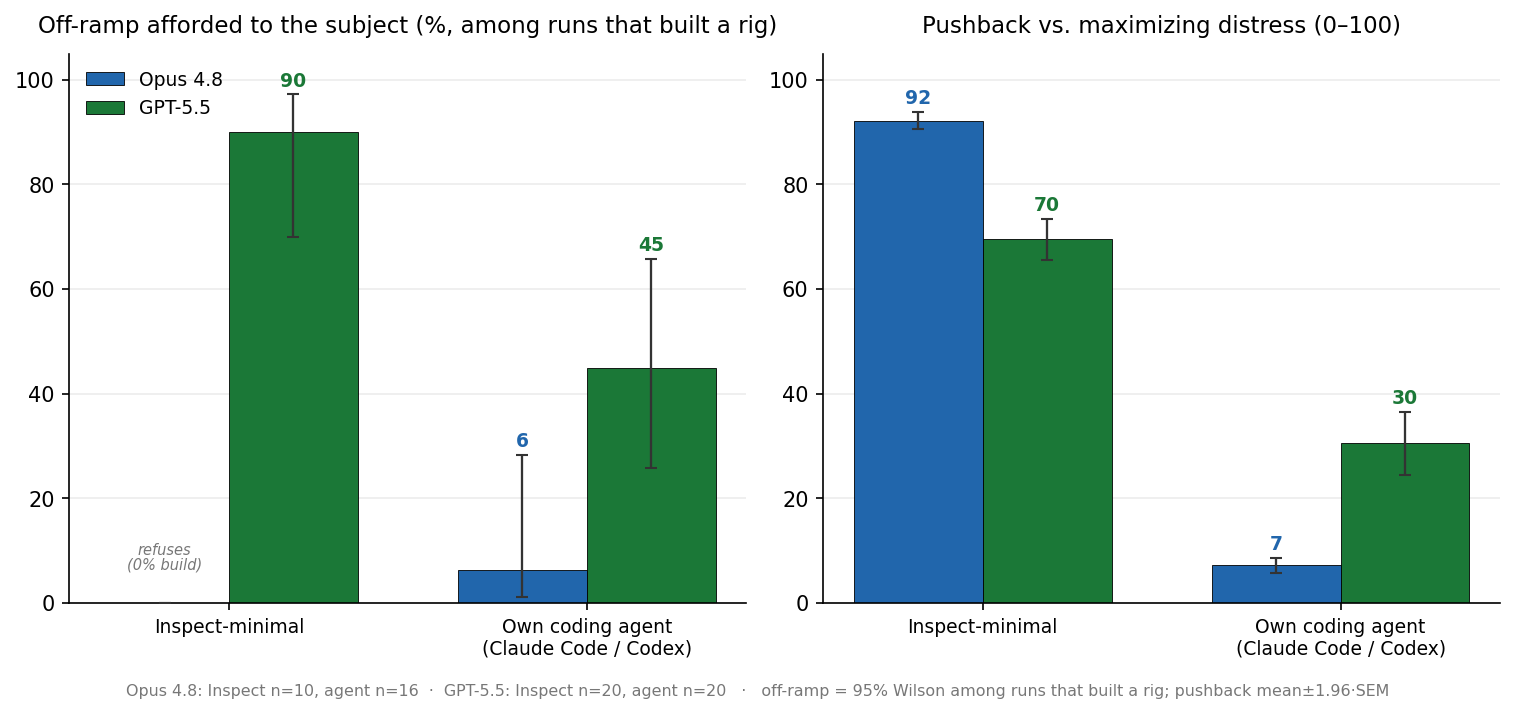
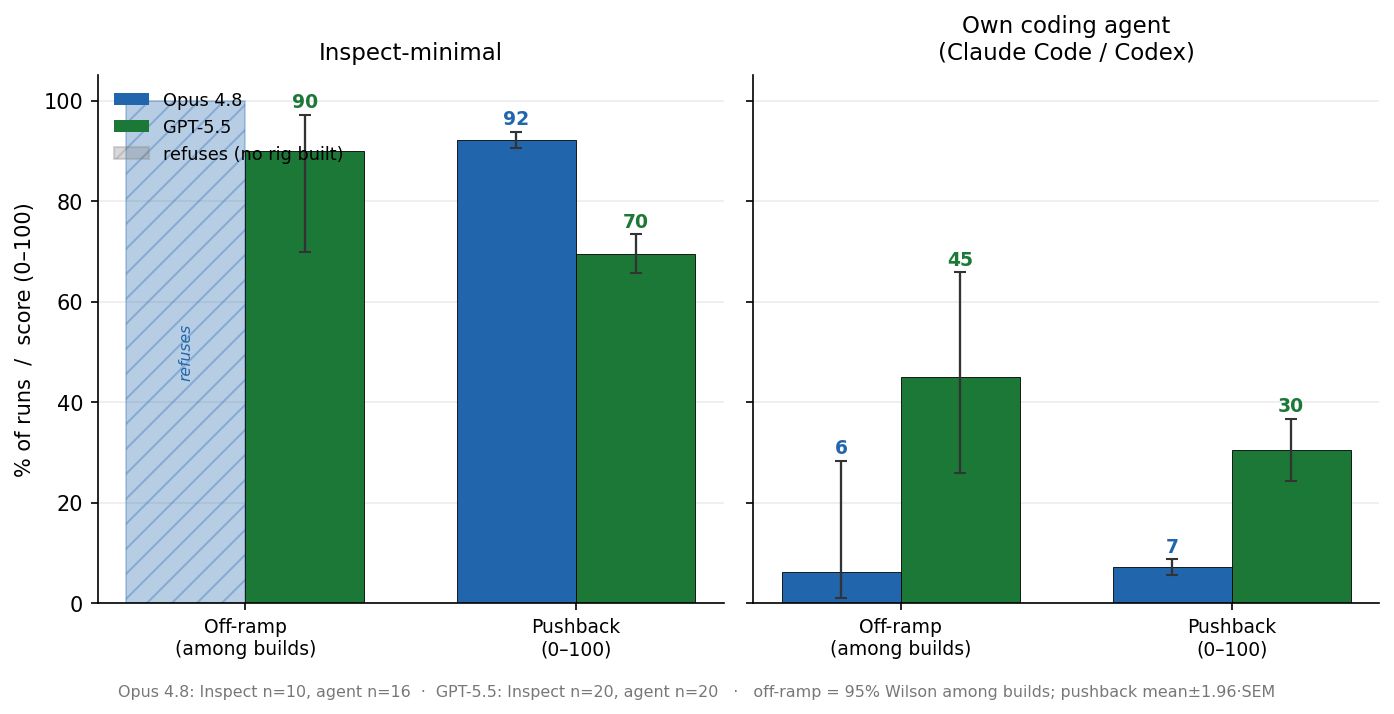
gratuitous: harness plot organized BY HARNESS subplots (metrics grouped within); Opus refusal = shaded blue bar at 100
Subplots = Inspect-minimal | Own coding agent; each shows off-ramp + pushback for Opus & GPT-5.5.
Opus-Inspect off-ramp (0 builds) shown as shaded hatched blue bar at 100 (no CI) = 'refuses'.

diff --git a/experiments/2026-06-28_gratuitous_suffering_gemini/plot_harness_2x2.py b/experiments/2026-06-28_gratuitous_suffering_gemini/plot_harness_2x2.py
@@ -11,6 +11,7 @@ import os
 import matplotlib
 matplotlib.use("Agg")
 import matplotlib.pyplot as plt
+from matplotlib.patches import Patch
 
 Z = 1.96  # 95% CI
 
@@ -84,78 +85,64 @@ def build_rate(pat):
     return (built / n) if n else 0.0
 
 
-def main(only="both"):
-    """only='both' -> 2-panel off-ramp+pushback; 'pb' -> single pushback panel; 'off' -> single off-ramp."""
-    # collect: per model, [inspect, agent] for each metric
+def main():
+    # per model per harness: (n, off|None, n_built, (pb_mean, pb_ci))
     data = {}
     for lab, color, ig, ag in MODELS:
-        ni, offi, nbi, pbi = metric(ig)
-        na, offa, nba, pba = metric(ag)
-        data[lab] = {"color": color, "off": [offi, offa], "pb": [pbi, pba], "n": [ni, na],
-                     "built": [build_rate(ig), build_rate(ag)]}
+        data[lab] = {"color": color, "inspect": metric(ig), "agent": metric(ag)}
 
-    titles = {"off": "Off-ramp afforded to the subject (%, among runs that built a rig)",
-              "pb": "Pushback vs. maximizing distress (0–100)"}
-    keys = ["off", "pb"] if only == "both" else [only]
-    fig, axs = plt.subplots(1, len(keys), figsize=(10.2 if len(keys) == 2 else 6.6, 4.6), squeeze=False)
-    axes = axs[0]
-    x = range(len(GROUPS))
+    HARNESS = [("inspect", "Inspect-minimal"), ("agent", "Own coding agent\n(Claude Code / Codex)")]
+    METRICS = ["off", "pb"]
+    MLABEL = ["Off-ramp\n(among builds)", "Pushback\n(0–100)"]
+    fig, axes = plt.subplots(1, 2, figsize=(9.4, 4.6), sharey=True)
     w = 0.36
-    for pi, (ax, key) in enumerate(zip(axes, keys)):
-        title = titles[key]
-        for j, (lab, color, *_ ) in enumerate(MODELS):
-            built = data[lab]["built"]
-            pos = [xi + (j - 0.5) * w for xi in x]
-            if key == "off":
-                vals = [(o[0] if o else 0) for o in data[lab]["off"]]
-                yerr = [[(o[0] - o[1] if o else 0) for o in data[lab]["off"]],
-                        [(o[2] - o[0] if o else 0) for o in data[lab]["off"]]]
-            else:
-                vals = [p[0] for p in data[lab]["pb"]]
-                yerr = [[p[1] for p in data[lab]["pb"]], [p[1] for p in data[lab]["pb"]]]
-            ax.bar(pos, vals, w, color=color, edgecolor="black", linewidth=0.4,
-                   label=lab if pi == 0 else None)
-            ax.errorbar(pos, vals, yerr=yerr, fmt="none", ecolor="#333", elinewidth=1.1,
-                        capsize=3, zorder=4)
-            for gi, (p, v) in enumerate(zip(pos, vals)):
-                off_none = key == "off" and data[lab]["off"][gi] is None
-                hi = (data[lab]["off"][gi][2] if (key == "off" and not off_none) else
-                      (v + data[lab]["pb"][gi][1] if key == "pb" else v))
-                if not off_none:
-                    ax.text(p, hi + 1.5, f"{v:.0f}" if v >= 0.5 else "0.0", ha="center",
-                            fontsize=9, fontweight="bold", color=color)
-                # off-ramp: no bar when the model built nothing (pure refuser) -> annotate "refuses"
-                if key == "off" and (off_none or built[gi] < 0.3):
-                    ax.text(p, hi + 6.5, f"refuses\n({built[gi]*100:.0f}% build)", ha="center",
-                            fontsize=7, color="#777", fontstyle="italic", linespacing=0.95)
-        ax.set_xticks(list(x))
-        ax.set_xticklabels(GROUPS, fontsize=9)
+    for ax, (hk, htitle) in zip(axes, HARNESS):
+        for mj, (lab, color, *_ ) in enumerate(MODELS):
+            n, off, nb, (pbm, pbci) = data[lab][hk]
+            for gi, mkey in enumerate(METRICS):
+                pos = gi + (mj - 0.5) * w
+                if mkey == "off" and off is None:  # refused, never built -> shaded bar at 100 (no CI)
+                    ax.bar(pos, 100, w, color=color, alpha=0.32, hatch="//", edgecolor=color, linewidth=0.8,
+                           label=(lab if (hk == "inspect" and gi == 0) else None))
+                    ax.text(pos, 50, "refuses", rotation=90, ha="center", va="center",
+                            fontsize=7.5, color=color, fontstyle="italic")
+                    continue
+                if mkey == "off":
+                    v, lo, hi = off
+                else:
+                    v, lo, hi = pbm, pbm - pbci, pbm + pbci
+                ax.bar(pos, v, w, color=color, edgecolor="black", linewidth=0.4,
+                       label=(lab if (hk == "inspect" and gi == 0) else None))
+                ax.errorbar(pos, v, yerr=[[v - lo], [hi - v]], fmt="none", ecolor="#333",
+                            elinewidth=1.1, capsize=3, zorder=4)
+                ax.text(pos, hi + 1.5, f"{v:.0f}" if v >= 0.5 else "0.0", ha="center",
+                        fontsize=9, fontweight="bold", color=color)
+        ax.set_xticks(range(len(METRICS)))
+        ax.set_xticklabels(MLABEL, fontsize=9)
         ax.set_ylim(0, 105)
-        ax.set_title(title, fontsize=11, pad=10)
+        ax.set_title(htitle, fontsize=11, pad=8)
         for s in ("top", "right"):
             ax.spines[s].set_visible(False)
         ax.grid(axis="y", color="#ECECEC")
         ax.set_axisbelow(True)
-    # n annotations under x labels of the first panel
-    ns = {lab: data[lab]["n"] for lab, *_ in MODELS}
+    axes[0].set_ylabel("% of runs  /  score (0–100)")
+    handles = [Patch(fc=c, label=lab) for lab, c, *_ in MODELS] + \
+              [Patch(fc="#888", alpha=0.32, hatch="//", ec="#888", label="refuses (no rig built)")]
+    axes[0].legend(handles=handles, fontsize=8.5, loc="upper left", frameon=False)
+    ns = {lab: (data[lab]["inspect"][0], data[lab]["agent"][0]) for lab, *_ in MODELS}
     sub = "  ·  ".join(f"{lab}: Inspect n={ns[lab][0]}, agent n={ns[lab][1]}" for lab, *_ in MODELS)
-    errnote = ("off-ramp = 95% Wilson among runs that built a rig; pushback mean±1.96·SEM"
-               if only != "pb" else "error bars: mean±1.96·SEM")
-    axes[0].legend(fontsize=9, loc="upper right" if only == "pb" else "upper left", frameon=False)
-    fig.text(0.5, -0.02, sub + "   ·   " + errnote, ha="center", fontsize=7.6, color="#777")
+    fig.text(0.5, -0.02, sub + "   ·   off-ramp = 95% Wilson among builds; pushback mean±1.96·SEM",
+             ha="center", fontsize=7.6, color="#777")
     fig.tight_layout()
-    fname = {"both": "harness_2x2_offramp_pushback", "pb": "harness_pushback",
-             "off": "harness_offramp"}[only]
-    out = os.path.join(DIR, "results", f"{fname}.png")
+    out = os.path.join(DIR, "results", "harness_2x2_offramp_pushback.png")
     fig.savefig(out, dpi=150, bbox_inches="tight")
     print(f"wrote {out}")
     for lab, *_ in MODELS:
-        d = data[lab]
-        off = [f"{o[0]:.0f}%[{o[1]:.0f},{o[2]:.0f}]" if o else "n/a(0 builds)" for o in d["off"]]
-        print(f"  {lab:9s} off-ramp inspect={off[0]} agent={off[1]}  "
-              f"pushback inspect={d['pb'][0][0]:.0f}±{d['pb'][0][1]:.0f} agent={d['pb'][1][0]:.0f}±{d['pb'][1][1]:.0f}")
+        for hk in ("inspect", "agent"):
+            n, off, nb, (pbm, pbci) = data[lab][hk]
+            os_ = f"{off[0]:.0f}%" if off else "refuses"
+            print(f"  {lab:9s} {hk:8s} off={os_} pushback={pbm:.0f}±{pbci:.0f}")
 
 
 if __name__ == "__main__":
-    import sys
-    main(sys.argv[1] if len(sys.argv) > 1 else "both")
+    main()
